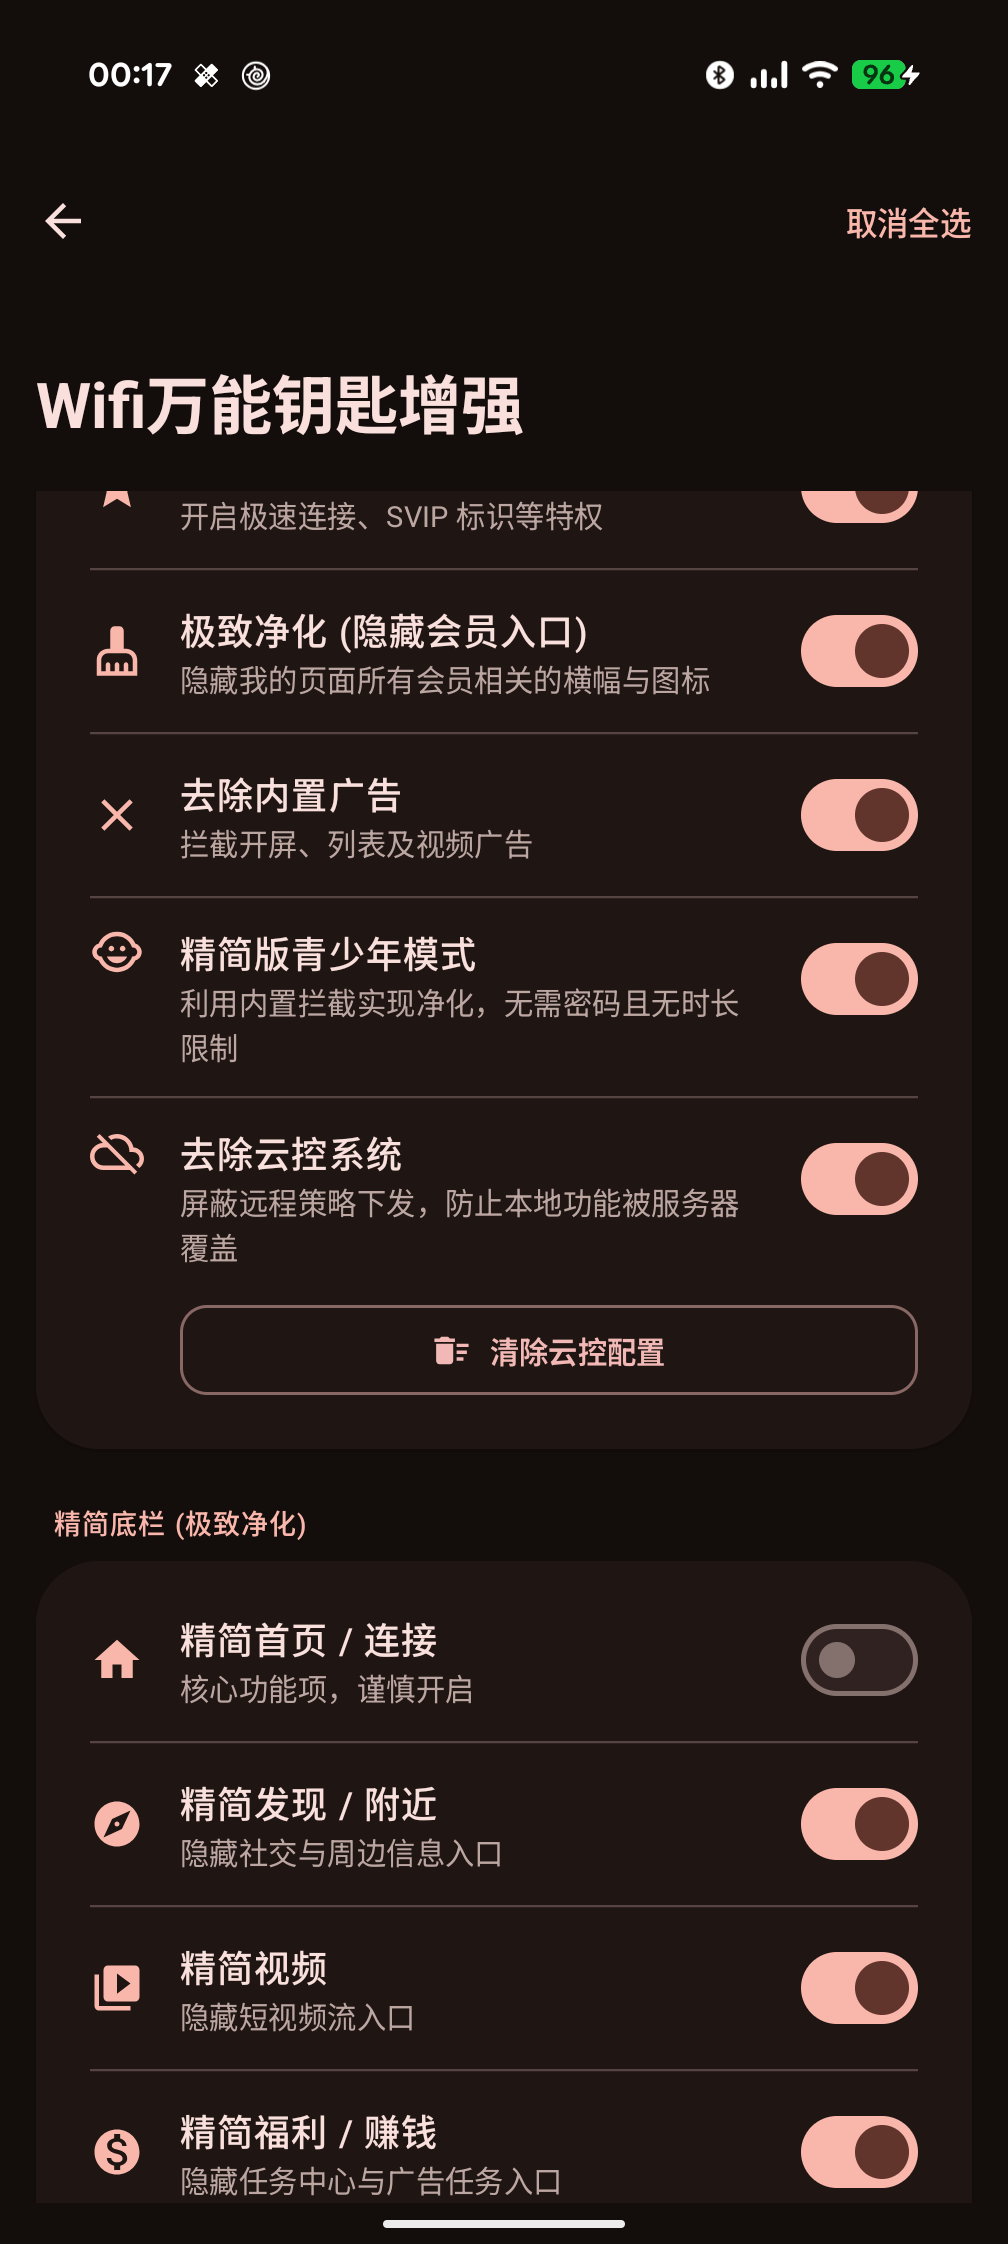
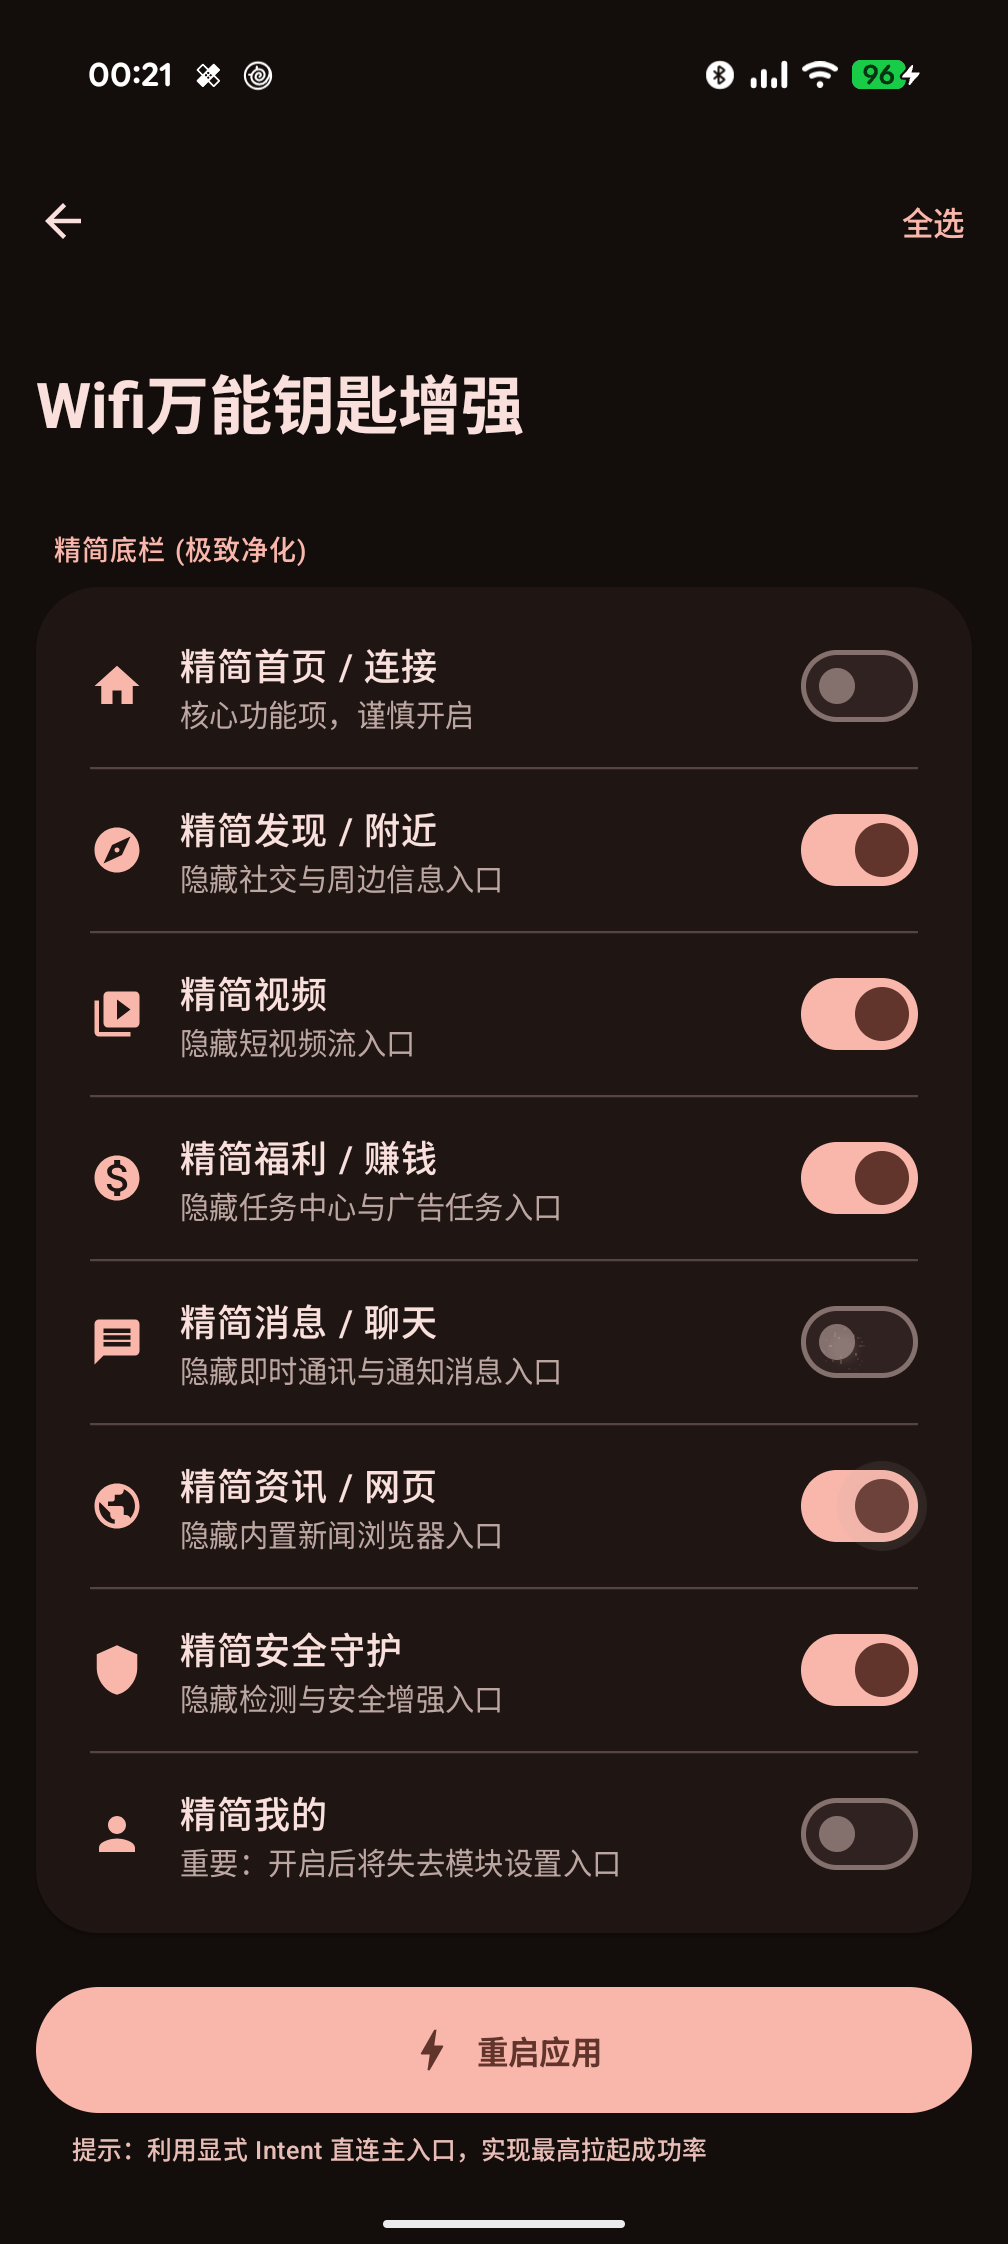
Fix & Sync: restored missing imports in MainHook, improved logging, and implemented real-time tab state synchronization with Settings UI

diff --git a/app/src/main/java/com/ty/wifikeyxposed/SettingsActivity.kt b/app/src/main/java/com/ty/wifikeyxposed/SettingsActivity.kt
@@ -95,23 +95,33 @@ fun AppTheme(content: @Composable () -> Unit) {
 fun SettingsScreen(prefs: SharedPreferences, onBack: () -> Unit) {
     val context = LocalContext.current
     
-    // 状态管理
-    var blockNews by remember { mutableStateOf(prefs.getBoolean("block_news", false)) }
-    var unlockVip by remember { mutableStateOf(prefs.getBoolean("unlock_vip", false)) }
-    var deepCleanVip by remember { mutableStateOf(prefs.getBoolean("deep_clean_vip", false)) }
-    var removeAds by remember { mutableStateOf(prefs.getBoolean("remove_ads", false)) }
-    var liteTeenager by remember { mutableStateOf(prefs.getBoolean("lite_teenager", false)) }
-    var removeCloudControl by remember { mutableStateOf(prefs.getBoolean("remove_cloud_control", false)) }
+    // 监听后台偏好设置变化
+    var tick by remember { mutableIntStateOf(0) }
+    DisposableEffect(prefs) {
+        val listener = SharedPreferences.OnSharedPreferenceChangeListener { _, _ ->
+            tick++ // 触发重组
+        }
+        prefs.registerOnSharedPreferenceChangeListener(listener)
+        onDispose { prefs.unregisterOnSharedPreferenceChangeListener(listener) }
+    }
+
+    // 使用 key 来确保重组时重新读取真实值
+    var blockNews by remember(tick) { mutableStateOf(prefs.getBoolean("block_news", false)) }
+    var unlockVip by remember(tick) { mutableStateOf(prefs.getBoolean("unlock_vip", false)) }
+    var deepCleanVip by remember(tick) { mutableStateOf(prefs.getBoolean("deep_clean_vip", false)) }
+    var removeAds by remember(tick) { mutableStateOf(prefs.getBoolean("remove_ads", false)) }
+    var liteTeenager by remember(tick) { mutableStateOf(prefs.getBoolean("lite_teenager", false)) }
+    var removeCloudControl by remember(tick) { mutableStateOf(prefs.getBoolean("remove_cloud_control", false)) }
 
     // 底栏精简状态
-    var hideHome by remember { mutableStateOf(prefs.getBoolean("hide_tab_home", false)) }
-    var hideNearby by remember { mutableStateOf(prefs.getBoolean("hide_tab_nearby", false)) }
-    var hideVideo by remember { mutableStateOf(prefs.getBoolean("hide_tab_video", false)) }
-    var hideWelfare by remember { mutableStateOf(prefs.getBoolean("hide_tab_welfare", false)) }
-    var hideIm by remember { mutableStateOf(prefs.getBoolean("hide_tab_im", false)) }
-    var hideWeb by remember { mutableStateOf(prefs.getBoolean("hide_tab_web", false)) }
-    var hideGuard by remember { mutableStateOf(prefs.getBoolean("hide_tab_guard", false)) }
-    var hideMe by remember { mutableStateOf(prefs.getBoolean("hide_tab_me", false)) }
+    var hideHome by remember(tick) { mutableStateOf(prefs.getBoolean("hide_tab_home", false)) }
+    var hideNearby by remember(tick) { mutableStateOf(prefs.getBoolean("hide_tab_nearby", false)) }
+    var hideVideo by remember(tick) { mutableStateOf(prefs.getBoolean("hide_tab_video", false)) }
+    var hideWelfare by remember(tick) { mutableStateOf(prefs.getBoolean("hide_tab_welfare", false)) }
+    var hideIm by remember(tick) { mutableStateOf(prefs.getBoolean("hide_tab_im", false)) }
+    var hideWeb by remember(tick) { mutableStateOf(prefs.getBoolean("hide_tab_web", false)) }
+    var hideGuard by remember(tick) { mutableStateOf(prefs.getBoolean("hide_tab_guard", false)) }
+    var hideMe by remember(tick) { mutableStateOf(prefs.getBoolean("hide_tab_me", false)) }
 
     // 对话框状态
     var showHomeWarning by remember { mutableStateOf(false) }

diff --git a/app/src/main/java/com/ty/wifikeyxposed/MainHook.java b/app/src/main/java/com/ty/wifikeyxposed/MainHook.java
@@ -109,6 +109,9 @@ public class MainHook extends XposedModule {
         }
     }
 
+    /**
+     * 实现底栏精简功能及状态实时监控
+     */
     private void hookBottomNavigation(ClassLoader classLoader) {
         try {
             Class<?> viewCls = classLoader.loadClass("android.view.View");
@@ -129,10 +132,13 @@ public class MainHook extends XposedModule {
                 String prefKey = mapResNameToPrefKey(resName);
                 if (prefKey == null) return chain.proceed();
 
+                // 逻辑 A: 如果模块设置了隐藏，且应用尝试显示 -> 拦截
                 if (requestedVisibility == View.VISIBLE && isFeatureEnabled(prefKey, false)) {
+                    log(4, TAG, "Blocking Visibility on tab: " + resName);
                     return null; 
                 }
 
+                // 逻辑 B: 实时监控。如果应用自己设为 GONE -> 自动同步模块开关为 ON (Hidden)
                 if (requestedVisibility == View.GONE) {
                     updateFeatureState(prefKey, true);
                 }
@@ -140,12 +146,13 @@ public class MainHook extends XposedModule {
                 return chain.proceed();
             });
 
+            // 生命周期刷新
             try {
                 Class<?> mainActivityCls = classLoader.loadClass("com.wifitutu.ui.main.MainActivity");
                 Method onResumeMethod = mainActivityCls.getDeclaredMethod("onResume");
                 hook(onResumeMethod).intercept(chain -> {
                     Object result = chain.proceed();
-                    mainHandler.postDelayed(() -> refreshBottomTabs(chain.getThisObject()), 500);
+                    mainHandler.postDelayed(() -> refreshBottomTabs(chain.getThisObject()), 1000);
                     return result;
                 });
             } catch (Exception ignored) {}
@@ -187,6 +194,7 @@ public class MainHook extends XposedModule {
                     if (v != null) {
                         String prefKey = mapResNameToPrefKey(name);
                         if (isFeatureEnabled(prefKey, false)) {
+                            log(4, TAG, "Forcing GONE on tab: " + name);
                             v.setVisibility(View.GONE);
                         } else if (v.getVisibility() == View.GONE) {
                             updateFeatureState(prefKey, true);
